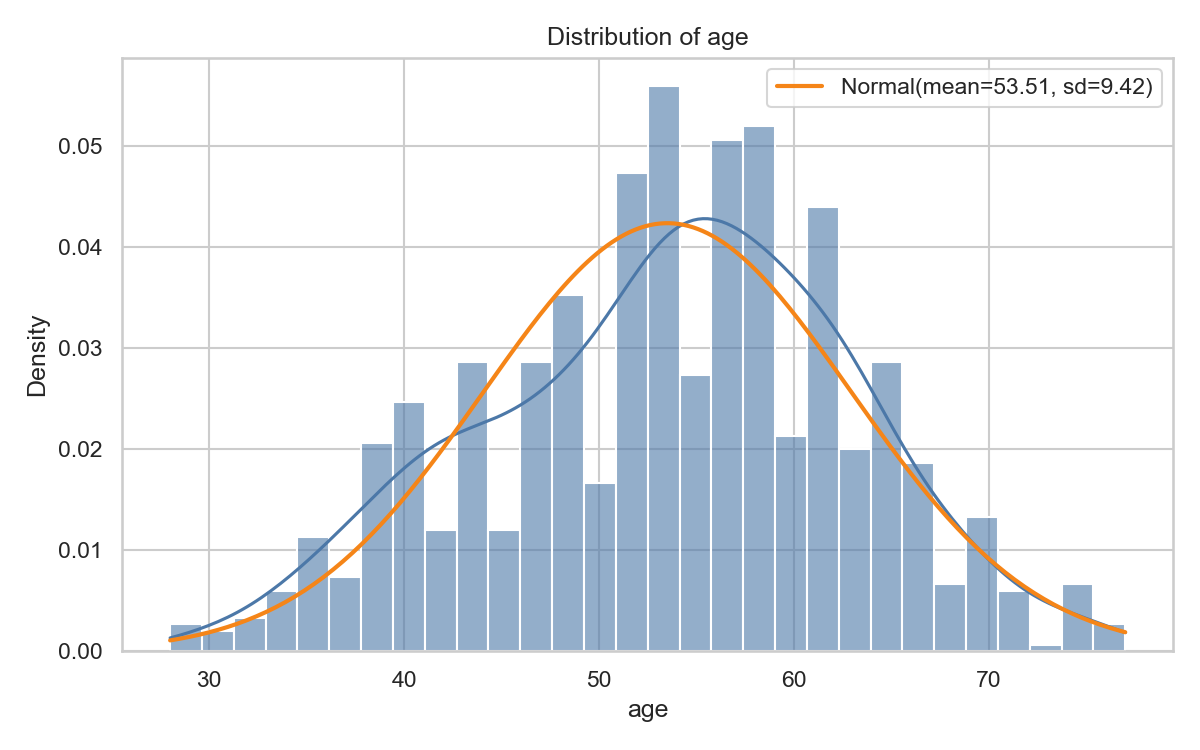
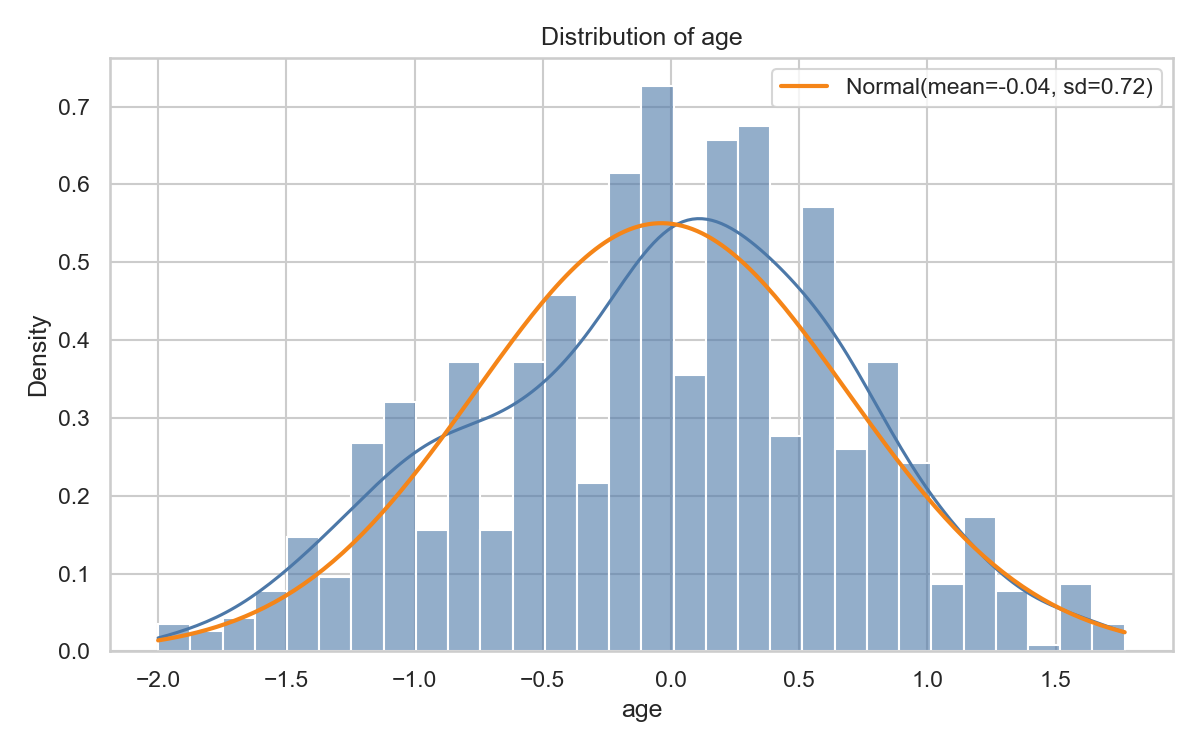
Add processing features

diff --git a/processing.py b/processing.py
@@ -1,0 +1,67 @@
+from __future__ import annotations
+
+from typing import Iterable, List
+
+import pandas as pd
+from sklearn.impute import KNNImputer
+from sklearn.preprocessing import RobustScaler
+
+
+ZERO_IMPUTE_COLS: List[str] = ["ca", "slope", "exang", "fbs", "cp", "thal"]
+KNN_IMPUTE_COLS: List[str] = ["trestbps", "chol", "restecg", "thalch", "oldpeak"]
+
+
+def impute_zeros(df: pd.DataFrame, cols: Iterable[str] = ZERO_IMPUTE_COLS) -> pd.DataFrame:
+    """Impute NaNs with 0 only for specified columns.
+
+    Columns not present in df are ignored.
+    """
+    out = df.copy()
+    for c in cols:
+        if c in out.columns:
+            out[c] = out[c].fillna(0)
+    return out
+
+
+def impute_knn(df: pd.DataFrame, cols: Iterable[str] = KNN_IMPUTE_COLS, n_neighbors: int = 5) -> pd.DataFrame:
+    """Apply KNNImputer only to specified columns.
+
+    Works with numeric columns; silently skips columns not in df.
+    """
+    out = df.copy()
+    target_cols = [c for c in cols if c in out.columns]
+    if not target_cols:
+        return out
+
+    imputer = KNNImputer(n_neighbors=n_neighbors)
+    imputed = imputer.fit_transform(out[target_cols])
+    out[target_cols] = imputed
+    return out
+
+
+def robust_scale_all_but_target(df: pd.DataFrame, target_col: str = "target") -> pd.DataFrame:
+    """Apply RobustScaler to all features except target.
+
+    Leaves target untouched if present.
+    """
+    out = df.copy()
+    feature_cols = [c for c in out.columns if c != target_col]
+    if not feature_cols:
+        return out
+    scaler = RobustScaler()
+    out[feature_cols] = scaler.fit_transform(out[feature_cols])
+    return out
+
+
+def process(df: pd.DataFrame) -> pd.DataFrame:
+    """Full processing pipeline as requested.
+
+    - Zero-impute ca, slope, exang, fbs, cp, thal
+    - KNN-impute trestbps, chol, restecg, thalch, oldpeak
+    - Robust scale all columns except target
+    """
+    out = impute_zeros(df)
+    out = impute_knn(out)
+    out = robust_scale_all_but_target(out, target_col="target")
+    return out
+

diff --git a/main.py b/main.py
@@ -3,6 +3,7 @@ from __future__ import annotations
 import pandas as pd
 
 from encoder import encode
+from processing import process
 from eda import run_full_eda
 
 
@@ -14,11 +15,17 @@ def load_and_encode(csv_path: str = "data/heart_disease_uci.csv") -> pd.DataFram
 
 if __name__ == "__main__":
     encoded_data = load_and_encode()
+    processed_data = process(encoded_data)
+
     print("Encoded data preview:")
     print(encoded_data.head())
 
+    print("\nProcessed data preview:")
+    print(processed_data.head())
+
     print("\nRunning EDA...")
-    eda_results = run_full_eda(encoded_data, charts_dir="charts")
+    # Use processed dataset for analyses
+    eda_results = run_full_eda(processed_data, charts_dir="charts")
 
     print("\nSummary statistics:")
     print(eda_results["summary"])  # DataFrame
